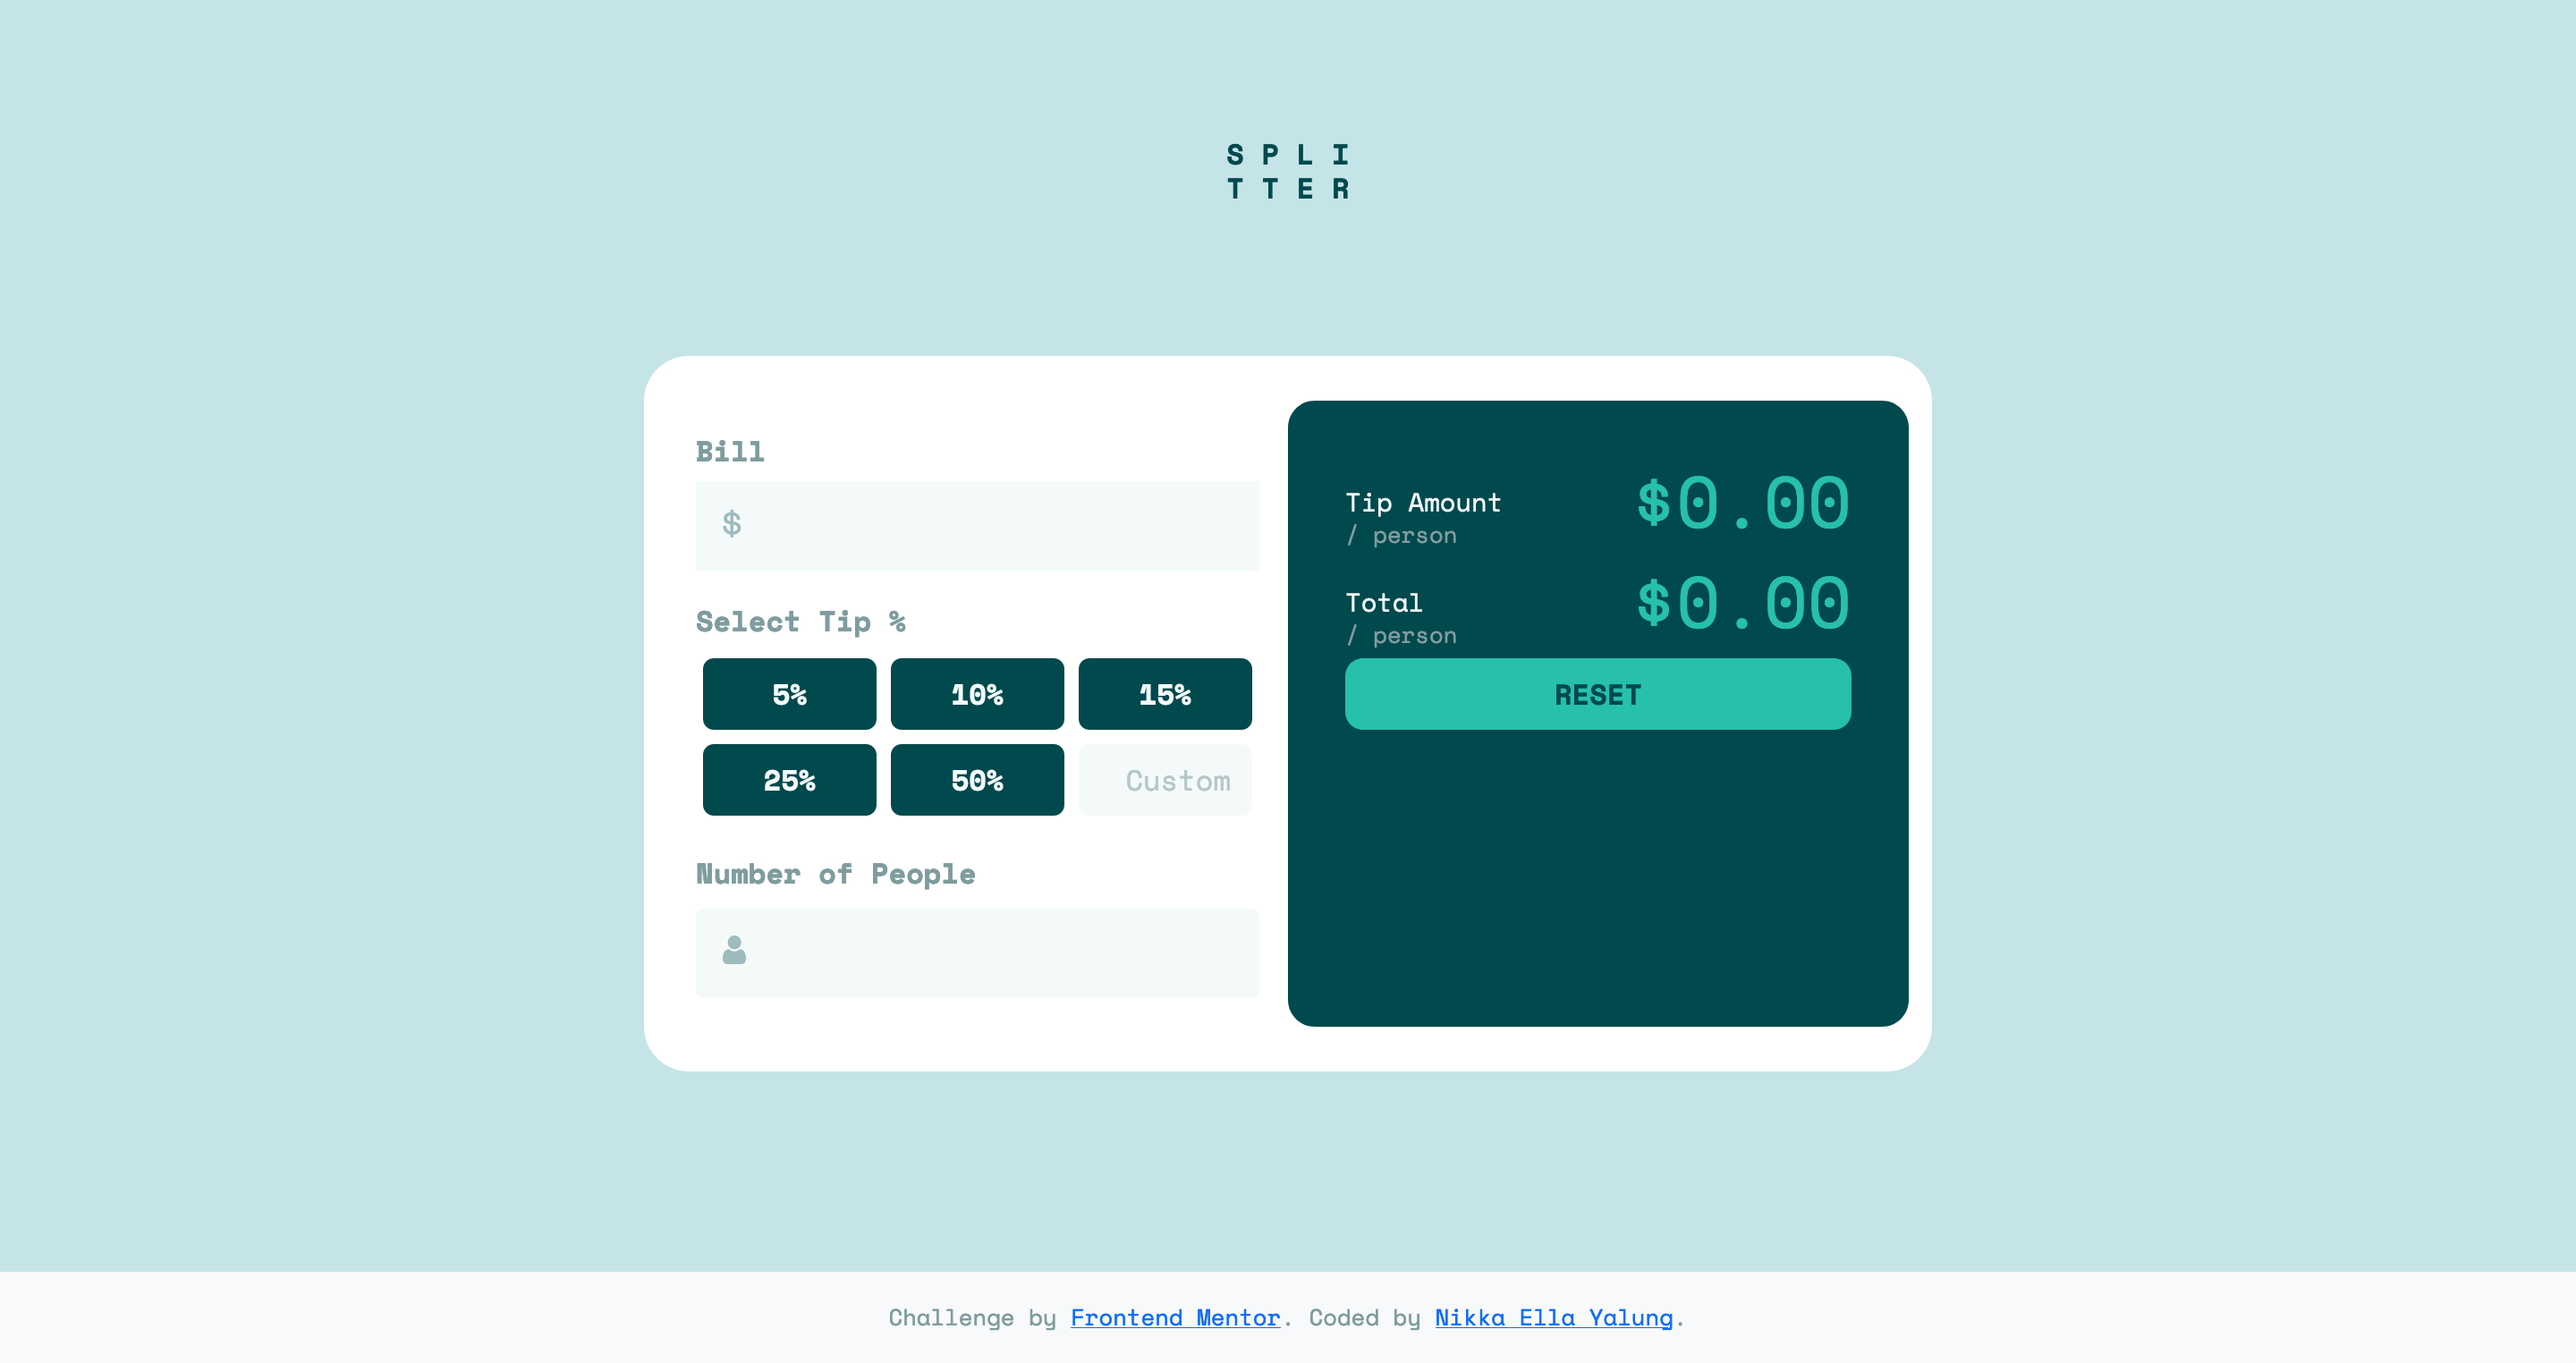
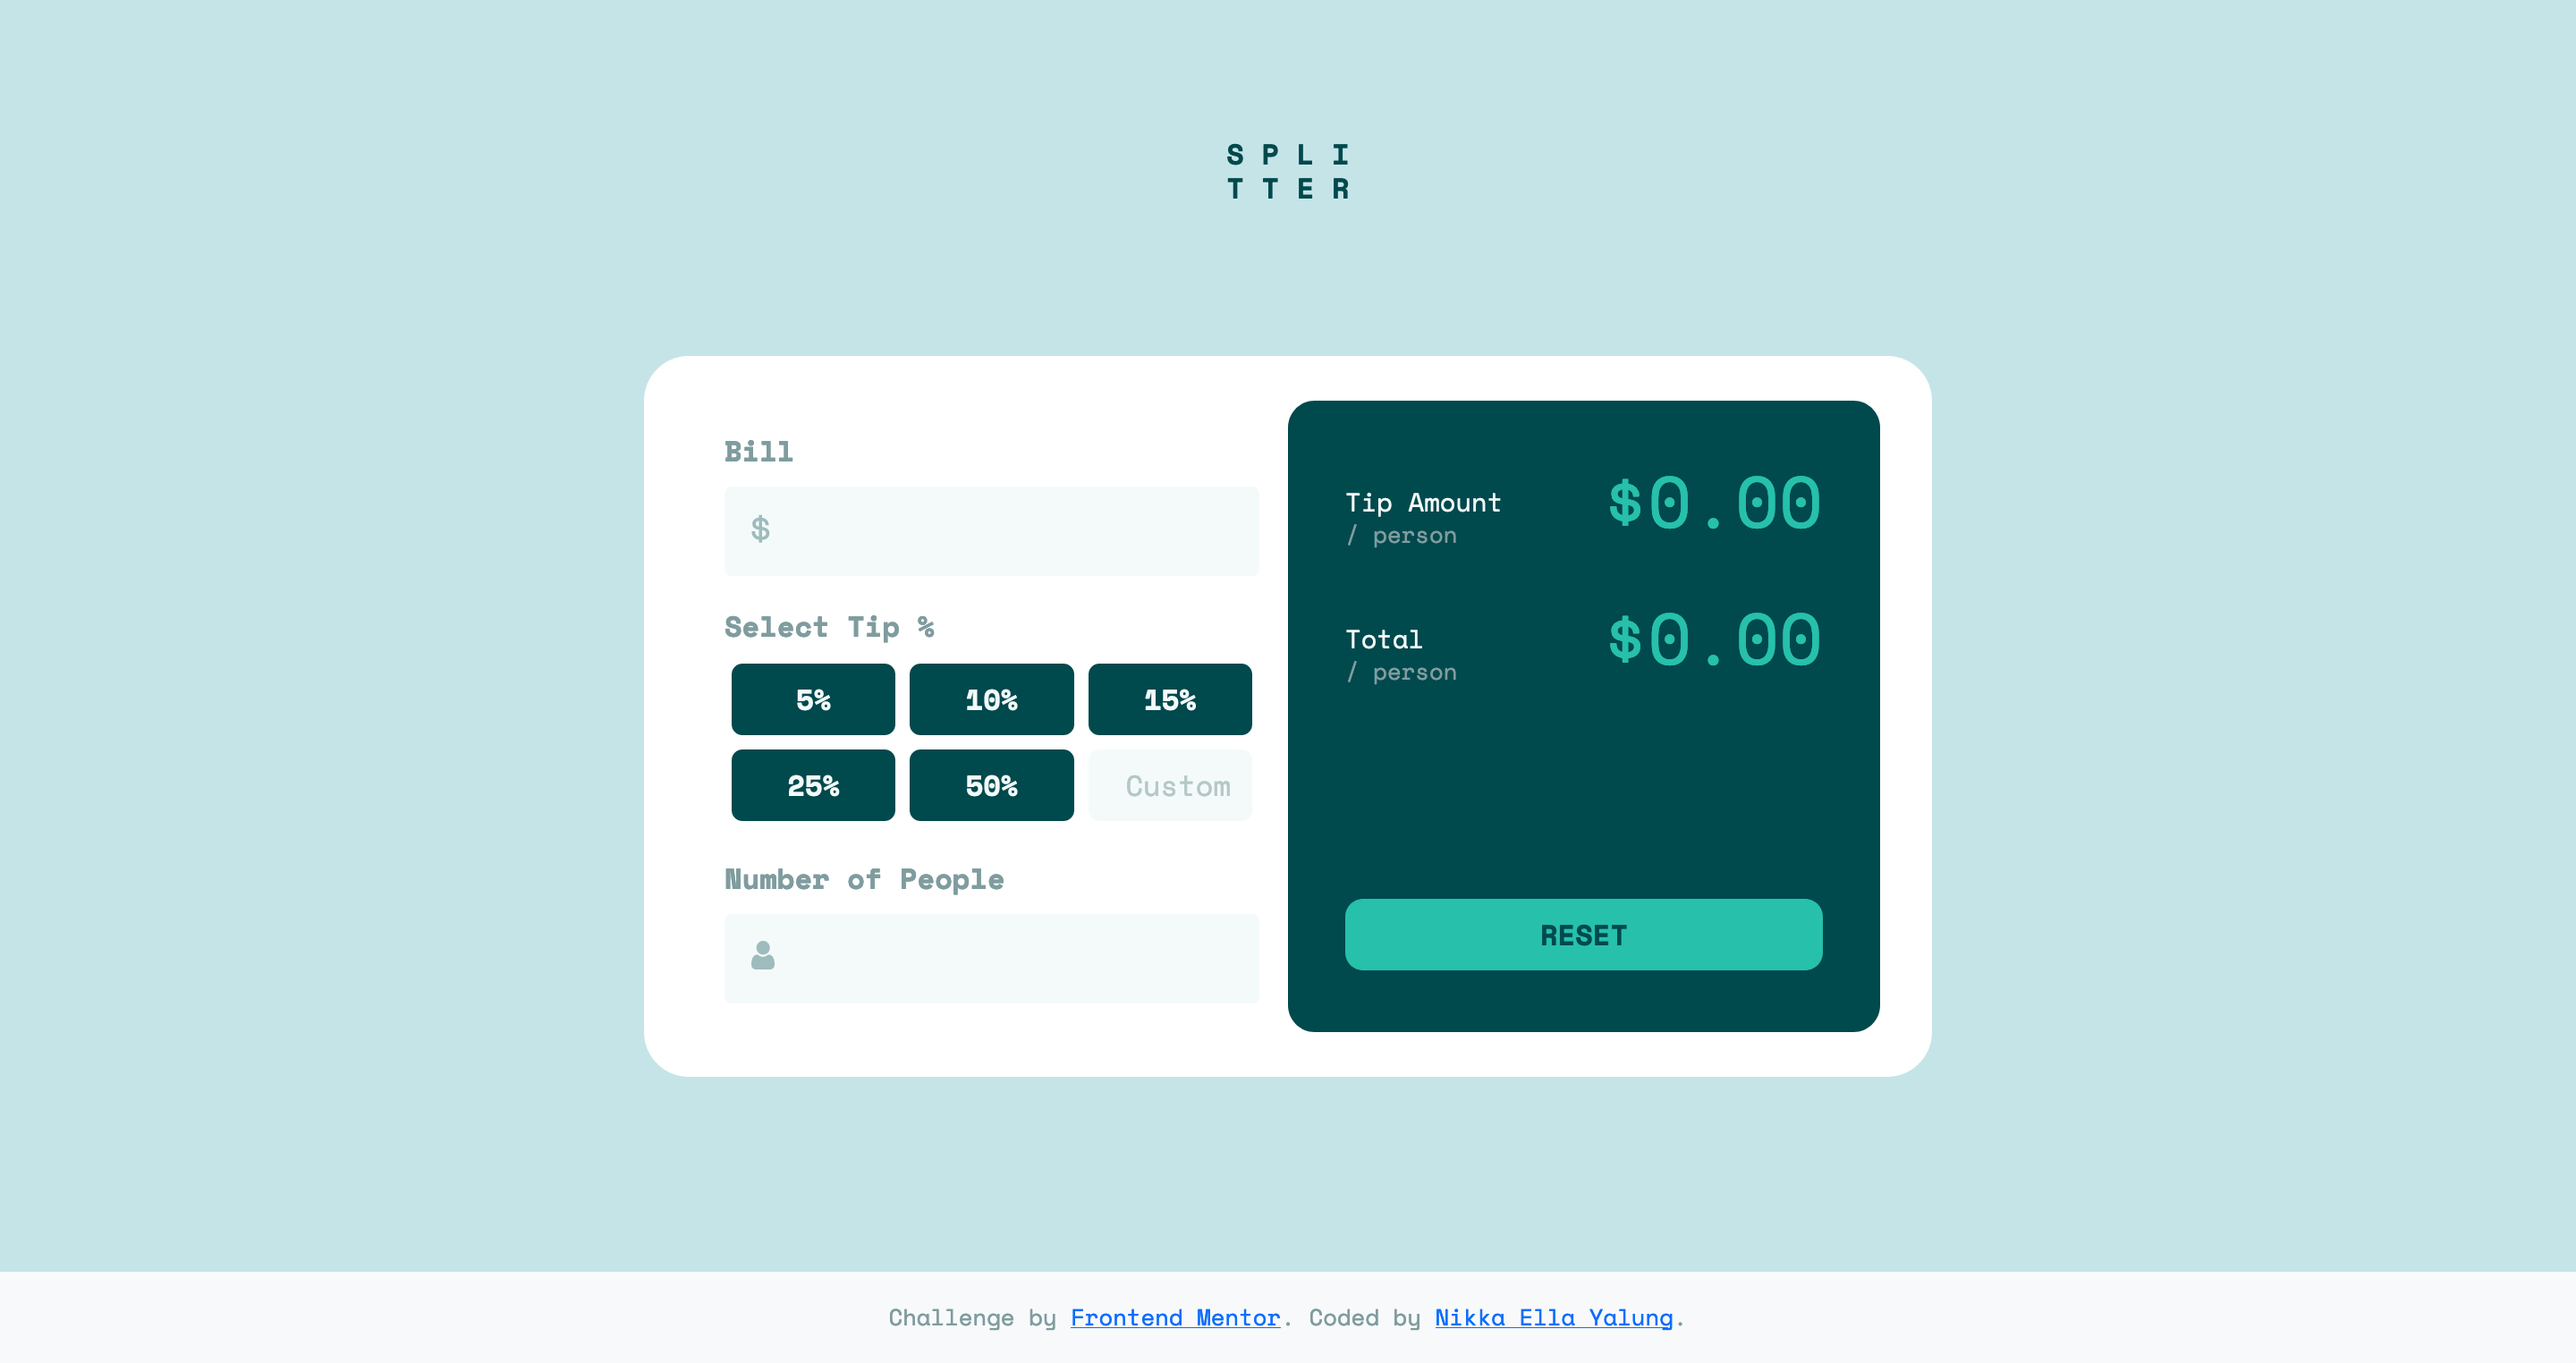
i think it's 98% done

diff --git a/index.html b/index.html
@@ -18,14 +18,15 @@
   <title>Nikka Yalung | Tip calculator app</title>
 </head>
 
-<body class="d-flex align-items-center justify-content-center">
-  <main class="container">
+<body>
+
+  <main class="align-items-center justify-content-center">
     <div class="d-flex justify-content-center">
       <h1 class="title">S P L I <br /> T T E R</h1>
     </div>
 
     <div class="container-sm main">
-      <div class="row">
+      <div class="row px-3">
 
         <!-- First column -->
         <div class="col-sm-6 p-3">
@@ -57,7 +58,7 @@
           <div class="d-flex flex-column">
 
             <div class="d-flex justify-content-between">
-              <div class="col-4">
+              <div class="col-4 mb-4">
                 <h2>Tip Amount</h2>
                 <p>/ person</p>
               </div>
@@ -76,13 +77,11 @@
               </div>
             </div>
 
-            <div class="justify-content-end">
-              <button id="reset" class="reset" type="button">RESET</button>
-            </div>
+            <!-- <div class="mt-5"> -->
+              <button id="reset" type="button">RESET</button>
+            <!-- </div> -->
           </div>
-
         </div>
-
       </div>
     </div>
   </main>

diff --git a/styles/styles.css b/styles/styles.css
@@ -98,11 +98,12 @@ p {
   margin: 0;
 }
 
-.reset {
+#reset {
   background-color: hsl(172, 67%, 45%);
   color: hsl(183, 100%, 15%);
   border: none;
   width: 100%;
+  margin-top: 5vh;
 }
 
 .attribution {
@@ -120,5 +121,9 @@ p {
 
   .title {
     padding: 10vh;
+  }
+
+  #reset {
+    margin-top: 15vh;
   }
 }
